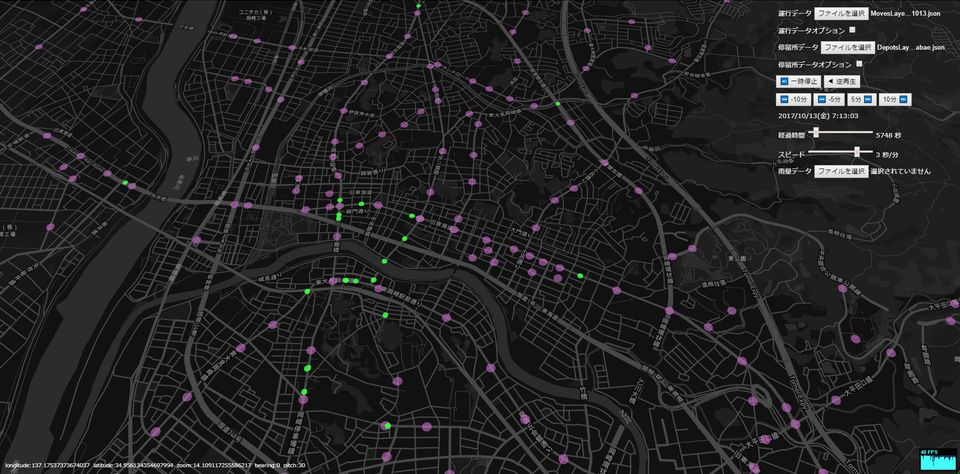
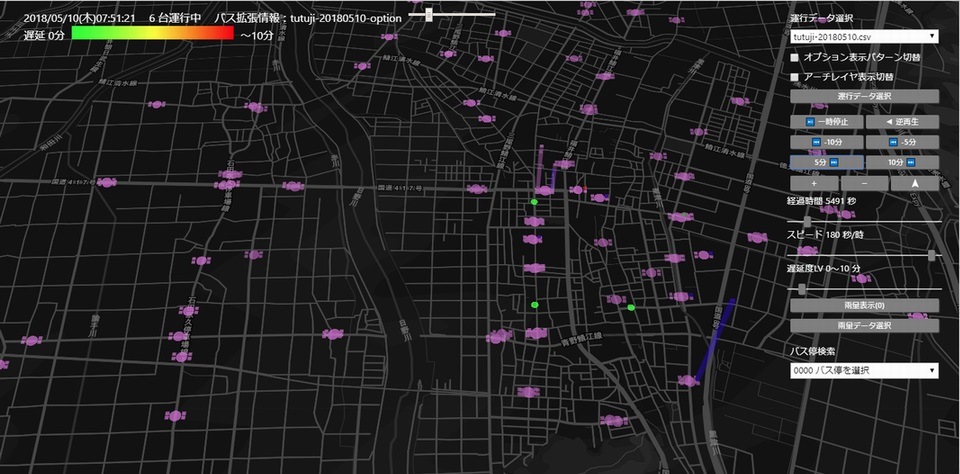
bus3dサンプルのコンポーネントスタイル変更

diff --git a/examples/bus3d/components/controller.js b/examples/bus3d/components/controller.js
@@ -27,9 +27,12 @@ const getNextCellSize = (xbandCellSize) => {
 };
 
 export default class Controller extends Component {
-/*  constructor() {
+  constructor() {
     super();
-  } */
+    this.state = {
+      filename: '',
+    };
+  }
 
   onTripSelect(e) {
     const answer = e.target.value;
@@ -104,17 +107,20 @@ export default class Controller extends Component {
     const { actions, trailing, defaultZoom, defaultPitch } = this.props;
     const reader = new FileReader();
     const file = e.target.files[0];
+    actions.setLoading(true);
     reader.readAsText(file);
     reader.onload = (ev) => {
       let readdata = '';
       try {
         readdata = JSON.parse(reader.result);
       } catch (exception) {
+        actions.setLoading(false);
         window.alert(exception);
         return;
       }
       const { timeBegin, timeLength, bounds, busmovesbase, busmovesbasedic } = readdata;
       if (!timeBegin || !timeLength || !bounds || !busmovesbase || !busmovesbasedic) {
+        actions.setLoading(false);
         window.alert('運行データ形式不正');
         return;
       }
@@ -132,6 +138,8 @@ export default class Controller extends Component {
       actions.setClicked(null);
       actions.setAnimatePause(false);
       actions.setAnimateReverse(false);
+      this.setState({ filename: file.name });
+      actions.setLoading(false);
     };
   }
 
@@ -149,25 +157,40 @@ export default class Controller extends Component {
     const optionsTrip = answers.map(
       ans => <option value={ans} key={ans}>{ans}</option>);
 
+    const nowrapstyle = { textAlign: 'center', whiteSpace: 'nowrap', overflow: 'hidden', textOverflow: 'ellipsis' };
+
     return (
-      <div className="harmovis_controller">
-        <ul className="harmovis_controller__list">
-          <li className="harmovis_controller__list__item"><span>運行データ選択</span>
-            <span className="harmovis_controller__spacer">
+      <div className="harmovis_controller container" id="controller_area">
+        <ul className="list-group harmovis_controller__list">
+          <li className="harmovis_controller__list__item">
+            <div className="input-group input-group-sm">
+              <label htmlFor="trip_select">運行データ選択</label>
               <select
+                className="w-100"
                 id="trip_select" value={answer}
                 onChange={this.onTripSelect.bind(this)}
               >{optionsTrip}</select>
-            </span>
-          </li>
-          <li className="harmovis_controller__list__item"><span>オプション表示パターン切替</span>
-            <input type="checkbox" onChange={getOptionChangeChecked} />
-          </li>
-          <li className="harmovis_controller__list__item"><span>アーチレイヤ表示切替</span>
-            <input type="checkbox" onChange={getArchLayerChangeChecked} />
+            </div>
           </li>
           <li className="harmovis_controller__list__item">
-            <input type="file" accept=".json" onChange={this.handleChangeFile.bind(this)} />
+            <div className="form-check">
+              <input type="checkbox" id="OptionChangeChecked" onChange={getOptionChangeChecked} className="form-check-input" />
+              <label htmlFor="OptionChangeChecked" className="form-check-label">オプション表示パターン切替</label>
+            </div>
+          </li>
+          <li className="harmovis_controller__list__item">
+            <div className="form-check">
+              <input type="checkbox" id="ArchLayerChangeChecked" onChange={getArchLayerChangeChecked} className="form-check-input" />
+              <label htmlFor="ArchLayerChangeChecked" className="form-check-label">アーチレイヤ表示切替</label>
+            </div>
+          </li>
+          <li className="harmovis_controller__list__item">
+            <div className="input-group input-group-sm">
+              <label htmlFor="MovesInput" className="harmovis_button">運行データ選択
+                <input type="file" accept=".json" onChange={this.handleChangeFile.bind(this)} id="MovesInput" style={{ display: 'none' }} />
+              </label>
+              <div style={nowrapstyle}>{this.state.filename}</div>
+            </div>
           </li>
           <li className="harmovis_controller__list__item">
             {animatePause ?
@@ -181,7 +204,9 @@ export default class Controller extends Component {
           </li>
           <li className="harmovis_controller__list__item">
             <AddMinutesButton addMinutes={-10} actions={actions}>⏮ -10分</AddMinutesButton>&nbsp;
-            <AddMinutesButton addMinutes={-5} actions={actions}>⏮ -5分</AddMinutesButton>&nbsp;
+            <AddMinutesButton addMinutes={-5} actions={actions}>⏮ -5分</AddMinutesButton>
+          </li>
+          <li className="harmovis_controller__list__item">
             <AddMinutesButton addMinutes={5} actions={actions}>5分 ⏭</AddMinutesButton>&nbsp;
             <AddMinutesButton addMinutes={10} actions={actions}>10分 ⏭</AddMinutesButton>
           </li>
@@ -190,32 +215,32 @@ export default class Controller extends Component {
             <NavigationButton buttonType="zoom-out" actions={actions} viewport={viewport} />&nbsp;
             <NavigationButton buttonType="compass" actions={actions} viewport={viewport} />
           </li>
-          <li className="harmovis_controller__list__item"><span>経過時間</span>
-            <ElapsedTimeRange settime={settime} timeLength={timeLength} actions={actions} />
-            <span className="harmovis_controller__spacer">{Math.floor(settime)}&nbsp;秒</span>
-          </li>
-          <li className="harmovis_controller__list__item"><span>スピード</span>
-            <SpeedRange secperhour={secperhour} actions={actions} />
-            <span className="harmovis_controller__spacer">{secperhour}&nbsp;秒/時</span>
-          </li>
-          <li className="harmovis_controller__list__item"><span>遅延度LV</span>
-            <input
-              type="range" value={delayrange} min="1" max="120" step="1"
-              onChange={this.setDelayRange.bind(this)}
-            />
-            <span className="harmovis_controller__spacer">0～{delayrange}分</span></li>
-          <li className="harmovis_controller__list__item">
-            <button onClick={this.setCellSize.bind(this)} className="harmovis_button">{xBandViewLabel}</button>
-            <span>{xbandCellSize ? xbandFname : ''}</span>
+          <li>
+            <label htmlFor="ElapsedTimeRange">経過時間&nbsp;{Math.floor(settime)}&nbsp;秒</label>
+            <ElapsedTimeRange settime={settime} timeLength={timeLength} actions={actions} id="ElapsedTimeRange" />
           </li>
           <li>
+            <label htmlFor="SpeedRange">スピード&nbsp;{secperhour}&nbsp;秒/時</label>
+            <SpeedRange secperhour={secperhour} actions={actions} id="SpeedRange" />
+          </li>
+          <li>
+            <label htmlFor="delayrange">遅延度LV&nbsp;0～{delayrange}&nbsp;分</label>
+            <input type="range" value={delayrange} min="1" max="120" step="1" onChange={this.setDelayRange.bind(this)} id="delayrange" className="harmovis_input_range" />
+          </li>
+          <li className="harmovis_controller__list__item">
+            <div className="input-group input-group-sm">
+              <button onClick={this.setCellSize.bind(this)} className="harmovis_button">{xBandViewLabel}</button>
+              <div style={nowrapstyle}>{xbandCellSize ? xbandFname : ''}</div>
+            </div>
+          </li>
+          <li className="harmovis_controller__list__item">
             <XbandDataInput actions={actions} />
           </li>
           <li className="harmovis_controller__list__item">
-            <span className="harmovis_controller__spacer">バス停検索</span>
-            <span className="harmovis_controller__spacer">
+            <div className="input-group input-group-sm">
+              <label htmlFor="busstop_select">バス停検索</label>
               <select
-                className="harmovis_controller__select"
+                className="w-100"
                 id="busstop_select" value={selectedBusstop}
                 onChange={this.onBusstopSelect.bind(this)}
               >
@@ -226,7 +251,7 @@ export default class Controller extends Component {
                   >{busstop.code} {busstop.name}</option>
                 )}
               </select>
-            </span>
+            </div>
           </li>
           <li className="harmovis_controller__list__item">
             <BusStopInfo
@@ -235,11 +260,12 @@ export default class Controller extends Component {
           </li>
           <li className="harmovis_controller__list__item">
             {animatePause && Object.keys(busmovesbasedic).length > 0 &&
-              <div>
-                運行中バス選択
+              <div className="input-group input-group-sm">
+                <label htmlFor="bus_select">運行中バス選択</label>
                 <select
-                  className="harmovis_controller__spacer"
-                  id="bus_select" value={selectedBus} onChange={this.onBusSelect.bind(this)}
+                  className="w-100"
+                  id="bus_select" value={selectedBus}
+                  onChange={this.onBusSelect.bind(this)}
                 >
                   {movedData.map(bus => <option value={bus.code} key={bus.code}>{`${bus.code}:${bus.name.split(' ')[0]} ${bus.name.split(' ')[1]}`}</option>)}
                 </select>

diff --git a/examples/bus3d/components/xbanddata-input.js b/examples/bus3d/components/xbanddata-input.js
@@ -5,23 +5,36 @@ import type { InputEvent } from 'harmoware-vis';
 import typeof { setRainfall } from '../actions';
 
 type Props = {
-  actions: { setRainfall: setRainfall },
+  actions: { setRainfall: setRainfall, setLoading: setLoading },
 }
 
-export default class XbandDataInput extends Component<Props> {
+type State = {
+  filename: string,
+}
+
+export default class XbandDataInput extends Component<Props, State> {
+  constructor() {
+    super();
+    this.state = {
+      filename: '',
+    };
+  }
+
   onSelect(e: InputEvent) {
     const reader = new FileReader();
     const file = e.target.files[0];
     if (!file) {
       return;
     }
+    const { actions } = this.props;
+    actions.setLoading(true);
     reader.readAsText(file);
     reader.onload = () => {
-      const { actions } = this.props;
       let readdata: Array<{ position: number, elevation: number, color: Array<number> }> | string = '';
       try {
         readdata = JSON.parse(reader.result.toString());
       } catch (exception) {
+        actions.setLoading(false);
         window.alert(exception);
         return;
       }
@@ -29,17 +42,28 @@ export default class XbandDataInput extends Component<Props> {
         const { position, elevation, color } = readdata[0];
         if (position && (elevation || color)) {
           actions.setRainfall(readdata);
+          this.setState({ filename: file.name });
+          actions.setLoading(false);
           return;
         }
+        actions.setLoading(false);
         window.alert('雨量データ形式不正');
       }
       actions.setRainfall([]);
+      this.setState({ filename: '選択されていません' });
+      actions.setLoading(false);
     };
   }
 
   render() {
+    const nowrapstyle = { textAlign: 'center', whiteSpace: 'nowrap', overflow: 'hidden', textOverflow: 'ellipsis' };
     return (
-      <input type="file" accept=".json" onChange={this.onSelect.bind(this)} />
+      <div className="input-group input-group-sm">
+        <label htmlFor="XbandDataInput" className="harmovis_button">雨量データ選択
+          <input type="file" accept=".json" onChange={this.onSelect.bind(this)} id="XbandDataInput" style={{ display: 'none' }} />
+        </label>
+        <div style={nowrapstyle}>{this.state.filename}</div>
+      </div>
     );
   }
 }

diff --git a/examples/bus3d/components/header.js b/examples/bus3d/components/header.js
@@ -62,19 +62,25 @@ export default class Header extends Component {
       return false;
     });
     return (
-      <div className="harmovis_header">
+      <div className="harmovis_header container" id="header_area">
         <span className="harmovis_header__spacer">{`${year}/${p02d(month)}/${p02d(day)}(${wday})${p02d(hour)}:${p02d(min)}:${p02d(sec)}`}</span>
         <span id="bus_count" className="harmovis_header__spacer">{movedData.length} 台運行中</span>
-        {Object.keys(busoption).length <= 0 ? <span className="harmovis_header__spacer">バス拡張情報なし</span> : <span>{`バス拡張情報：${bsoptFname}`}</span>}
+        {Object.keys(busoption).length <= 0 ?
+          <span className="harmovis_header__spacer">バス拡張情報なし</span> :
+          <span className="harmovis_header__spacer">{`バス拡張情報：${bsoptFname}`}</span>
+        }
         {Object.keys(busoption).length > 0 &&
           (busoption.busmovesoption || busoption.busstopsoption) &&
           <input
             className="harmovis_header__input"
             type="range" value={elevationScale} min="1" max="20" step="1"
             onChange={this.setScaleElevation.bind(this)}
-          />}<br />
-        <span className="harmovis_header__spacer">遅延 0分</span><CanvasComponent {...canvasProps} /><span>～{delayrange}分</span>
-        {flg && clickedObject && <span>３Ｄ表示</span>}
+          />}
+        <br />
+        <span className="harmovis_header__spacer">遅延 0分</span>
+        <CanvasComponent {...canvasProps} />
+        <span className="harmovis_header__spacer">～{delayrange}分</span>
+        {flg && clickedObject && <span className="harmovis_header__spacer">３Ｄ表示</span>}
         {flg && clickedObject &&
           <span className="harmovis_header__spacer">
             <input
@@ -87,7 +93,7 @@ export default class Header extends Component {
         {getClickedInfo &&
           <div>
             <span className="harmovis_header__spacer">
-            選択バス情報
+            選択バス情報&nbsp;
               <button onClick={this.onBusReleaseClick.bind(this)} className="harmovis_button">解除</button>
             </span>
             <span className="harmovis_header__spacer">

diff --git a/scss/harmoware.scss b/scss/harmoware.scss
@@ -55,7 +55,7 @@
 }
 
 .harmovis_button {
-  background-color: #6A7485;
+  background-color: #808080;
   border-radius: 2px;
   color: #FFFFFF;
   cursor: pointer;
@@ -67,7 +67,32 @@
   text-align: center;
   transition: all .4s ease;
   vertical-align: middle;
-  width: 105px;
+  width: 100%;
+  border-width: 0px;
+  box-shadow: 1px 1px 1px #555;
+}
+
+.harmovis_input_range[type="range"] {
+  -webkit-appearance: none;
+  appearance: none;
+  background-color: rgba(255, 255, 255, 0.7);
+  height: 2px;
+  width: 100%;
+  margin: 8px 0px;
+  border-radius: 2px;
+  &::-webkit-slider-thumb {
+    -webkit-appearance: none;
+    appearance: none;
+    cursor: pointer;
+    position: relative;
+    width: 10px;
+    height: 16px;
+    display: block;
+    background-color: #808080;
+    border-radius: 2px;
+    -webkit-border-radius: 2px;
+    box-shadow: 1px 1px 1px #555;
+  }
 }
 
 .harmovis_footer {

diff --git a/examples/bus3d/index.html b/examples/bus3d/index.html
@@ -4,6 +4,7 @@
     <meta charset='UTF-8' />
     <meta name="viewport" content="width=device-width, initial-scale=1.0, maximum-scale=1.0, user-scalable=no">
     <title>bus3d</title>
+    <link rel="stylesheet" href="https://stackpath.bootstrapcdn.com/bootstrap/4.1.3/css/bootstrap.min.css" integrity="sha384-MCw98/SFnGE8fJT3GXwEOngsV7Zt27NXFoaoApmYm81iuXoPkFOJwJ8ERdknLPMO" crossorigin="anonymous">
     <style>
       body { 
         margin: 0px; 
@@ -15,6 +16,13 @@
       a { 
         color: white; 
         text-decoration: none; 
+      }
+      #header_area {
+        left: 10px;
+      }
+      #controller_area {
+        right: 10px; 
+        width: 260px; 
       }
       .harmovis_controller__list__item {
         display: flex;

diff --git a/examples/bus3d/components/busstop-info.js b/examples/bus3d/components/busstop-info.js
@@ -4,8 +4,8 @@ export default class BusStopInfo extends Component {
   render() {
     const { selectedBusstop, date, depotsData } = this.props;
     const d = new Date(date);
-    const width = selectedBusstop.length > 0 && selectedBusstop !== '0000' ? '300px' : '0px';
-    const height = selectedBusstop.length > 0 && selectedBusstop !== '0000' ? '100px' : '0px';
+    const width = selectedBusstop.length > 0 && selectedBusstop !== '0000' ? '100%' : '0%';
+    const height = selectedBusstop.length > 0 && selectedBusstop !== '0000' ? '100%' : '0%';
     const busstop = depotsData.find((busstopElement) => {
       if (busstopElement.code === selectedBusstop) {
         return true;

diff --git a/src/components/elapsedtime-range.js b/src/components/elapsedtime-range.js
@@ -20,6 +20,7 @@ export default class ElapsedTimeRange extends Component<Props> {
   static defaultProps = {
     min: -100,
     step: 1,
+    className: 'harmovis_input_range'
   }
 
   setTime(e: InputEvent) {

diff --git a/src/components/speed-range.js b/src/components/speed-range.js
@@ -21,6 +21,7 @@ export default class SpeedRange extends Component<Props> {
     maxsecperhour: 3600,
     min: 1,
     step: 1,
+    className: 'harmovis_input_range'
   }
 
   setSecPerHour(e : InputEvent) {
